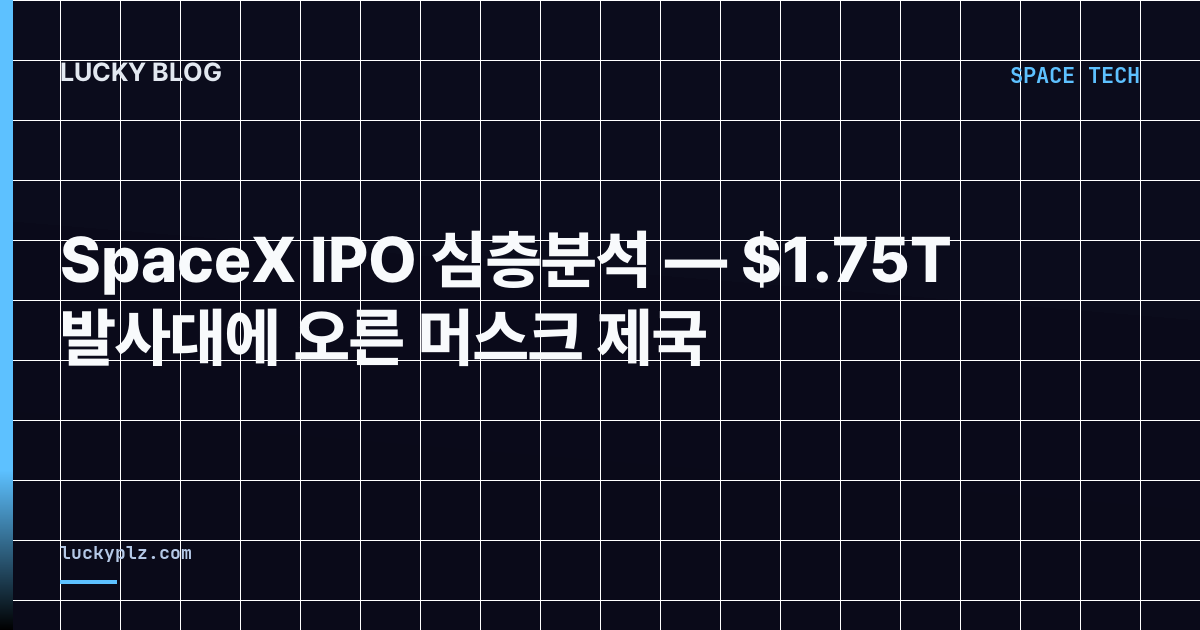
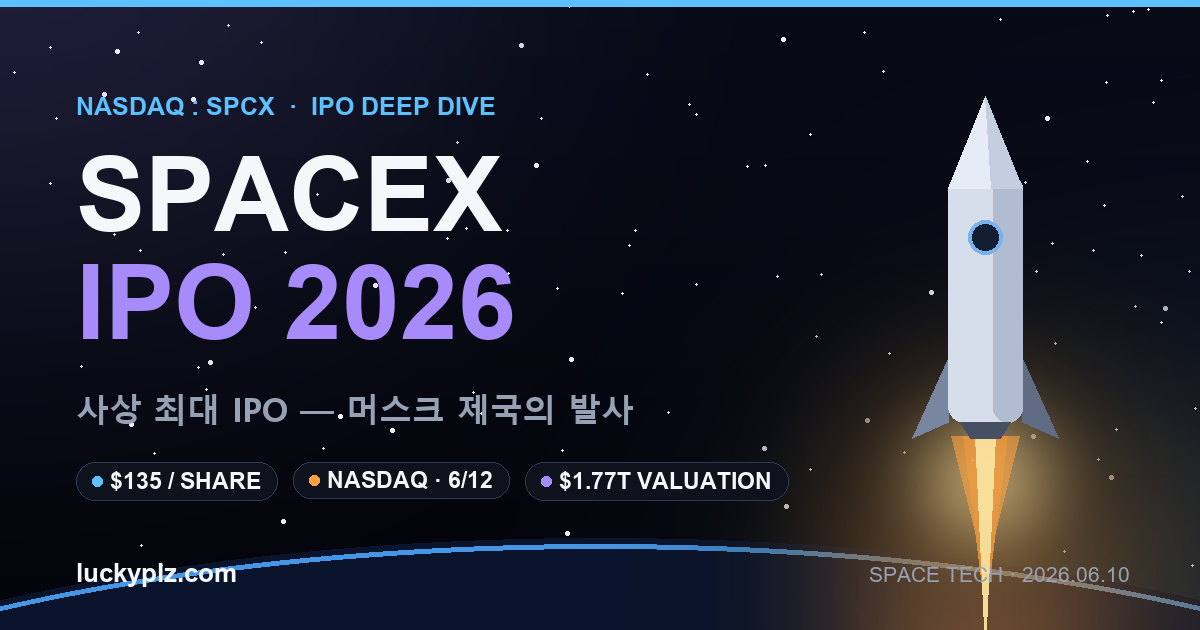
feat(blog): SpaceX IPO 전용 OG 리디자인 — 로켓 발사 비주얼 (7개 언어)
기존 OG 가 격자 배경+텍스트뿐이고 수치도 구버전($1.75T)이었으며,
de/es/hi/zh/ja 5개 언어판(+ko JSON-LD)은 아예 범용 사이트 OG 를 쓰고 있었음.

새 디자인 (gen-og-spacex-ipo.py, PIL):
- 딥스페이스 그라데이션 + 시드 고정 별밭 + 지구 호라이즌 글로우
- 엔진 화염·배기 트레일이 있는 상승 로켓 일러스트
- SPACEX / IPO 2026 워드마크 + NASDAQ:SPCX 아이브로우
- 확정 수치 칩 3개: $135/SHARE · NASDAQ 6/12 · $1.77T VALUATION
- 언어별 자막 7종 (ko/en/de/es/hi/zh/ja — Nirmala·msyh·YuGoth 폰트)

7개 HTML 의 og:image·twitter:image·JSON-LD image 를 각자 언어판 OG 로 통일
(범용 og-image.png 참조 0 으로). 시각 검증: ko·ja 렌더 확인.

diff --git a/public/blog/spacex-ipo-2026-hi/index.html b/public/blog/spacex-ipo-2026-hi/index.html
@@ -26,13 +26,13 @@
 <meta property="og:title" content="SpaceX IPO — S-1 दाखिल, $2 ट्रिलियन (SPCX)">
 <meta property="og:description" content="xAI विलय · Starship V3 · Orbital AI — इतिहास का सबसे बड़ा IPO, पूरी तरह से विश्लेषित।">
 <meta property="og:url" content="https://luckyplz.com/blog/spacex-ipo-2026-hi/">
-<meta property="og:image" content="https://luckyplz.com/assets/og-image.png">
+<meta property="og:image" content="https://luckyplz.com/og/spacex-ipo-2026-hi.png">
 <meta name="twitter:card" content="summary_large_image">
 <meta name="twitter:title" content="SpaceX IPO — S-1 दाखिल, $2T (SPCX)">
 <meta name="twitter:description" content="xAI, Starship V3, Orbital AI। इतिहास का सबसे बड़ा IPO।">
-<meta name="twitter:image" content="https://luckyplz.com/assets/og-image.png">
+<meta name="twitter:image" content="https://luckyplz.com/og/spacex-ipo-2026-hi.png">
 <script type="application/ld+json">
-{"@context":"https://schema.org","@type":"BlogPosting","headline":"SpaceX IPO गहन विश्लेषण — S-1 दाखिल, Musk का $2 ट्रिलियन साम्राज्य (SPCX)","description":"2026.05.20 को S-1 सार्वजनिक रूप से दाखिल, Nasdaq टिकर SPCX, जून में ट्रेडिंग की संभावना। लक्ष्य मूल्यांकन $2 ट्रिलियन से अधिक। S-1 आँकड़े, Starlink, Starship V3, xAI की तथ्य-जाँच।","image":"https://luckyplz.com/assets/og-image.png","datePublished":"2026-05-06","dateModified":"2026-06-10","inLanguage":"hi","author":{"@type":"Organization","name":"Lucky Please","url":"https://luckyplz.com/"},"publisher":{"@type":"Organization","name":"Lucky Please","logo":{"@type":"ImageObject","url":"https://luckyplz.com/assets/icon-192.png"}},"mainEntityOfPage":{"@type":"WebPage","@id":"https://luckyplz.com/blog/spacex-ipo-2026-hi/"}}
+{"@context":"https://schema.org","@type":"BlogPosting","headline":"SpaceX IPO गहन विश्लेषण — S-1 दाखिल, Musk का $2 ट्रिलियन साम्राज्य (SPCX)","description":"2026.05.20 को S-1 सार्वजनिक रूप से दाखिल, Nasdaq टिकर SPCX, जून में ट्रेडिंग की संभावना। लक्ष्य मूल्यांकन $2 ट्रिलियन से अधिक। S-1 आँकड़े, Starlink, Starship V3, xAI की तथ्य-जाँच।","image":"https://luckyplz.com/og/spacex-ipo-2026-hi.png","datePublished":"2026-05-06","dateModified":"2026-06-10","inLanguage":"hi","author":{"@type":"Organization","name":"Lucky Please","url":"https://luckyplz.com/"},"publisher":{"@type":"Organization","name":"Lucky Please","logo":{"@type":"ImageObject","url":"https://luckyplz.com/assets/icon-192.png"}},"mainEntityOfPage":{"@type":"WebPage","@id":"https://luckyplz.com/blog/spacex-ipo-2026-hi/"}}
 </script>
     <script type="application/ld+json">
     {"@context":"https://schema.org","@type":"BreadcrumbList","itemListElement":[{"@type":"ListItem","position":1,"name":"홈","item":"https://luckyplz.com/"},{"@type":"ListItem","position":2,"name":"블로그","item":"https://luckyplz.com/blog/"},{"@type":"ListItem","position":3,"name":"SpaceX IPO गहन विश्लेषण — S-1 दाखिल, Musk का $2 ट्रिलियन साम्राज्य (SPCX)","item":"https://luckyplz.com/blog/spacex-ipo-2026-hi/"}]}

diff --git a/public/blog/spacex-ipo-2026-ja/index.html b/public/blog/spacex-ipo-2026-ja/index.html
@@ -26,13 +26,13 @@
 <meta property="og:title" content="SpaceX IPO徹底分析 — S-1提出完了、2兆ドルのマスク帝国 (SPCX)">
 <meta property="og:description" content="xAI合併・Starship V3・Orbital AI — マスク帝国史上最大のIPOを徹底解説。">
 <meta property="og:url" content="https://luckyplz.com/blog/spacex-ipo-2026-ja/">
-<meta property="og:image" content="https://luckyplz.com/assets/og-image.png?v=1777984694">
+<meta property="og:image" content="https://luckyplz.com/og/spacex-ipo-2026-ja.png">
 <meta name="twitter:card" content="summary_large_image">
 <meta name="twitter:title" content="SpaceX IPO — S-1提出完了、2兆ドル (SPCX)">
 <meta name="twitter:description" content="xAI合併・Starship V3・Orbital AI。マスク帝国史上最大のIPO。">
-<meta name="twitter:image" content="https://luckyplz.com/assets/og-image.png?v=1777984694">
+<meta name="twitter:image" content="https://luckyplz.com/og/spacex-ipo-2026-ja.png">
 <script type="application/ld+json">
-{"@context":"https://schema.org","@type":"BlogPosting","headline":"SpaceX IPO徹底分析 — S-1提出完了、2兆ドルのマスク帝国 (SPCX)","description":"2026.05.20 S-1公開提出、ナスダックSPCX、6月取引開始の見込み。目標評価額2兆ドル超。S-1業績、Starlink 1000万、Starship V3、xAI買収の最新ファクトチェック。","image":"https://luckyplz.com/assets/og-image.png?v=1777984694","datePublished":"2026-05-05","dateModified":"2026-06-10","inLanguage":"ja","author":{"@type":"Organization","name":"Lucky Please","url":"https://luckyplz.com/"},"publisher":{"@type":"Organization","name":"Lucky Please","logo":{"@type":"ImageObject","url":"https://luckyplz.com/assets/icon-192.png?v=1777984694"}},"mainEntityOfPage":{"@type":"WebPage","@id":"https://luckyplz.com/blog/spacex-ipo-2026-ja/"}}
+{"@context":"https://schema.org","@type":"BlogPosting","headline":"SpaceX IPO徹底分析 — S-1提出完了、2兆ドルのマスク帝国 (SPCX)","description":"2026.05.20 S-1公開提出、ナスダックSPCX、6月取引開始の見込み。目標評価額2兆ドル超。S-1業績、Starlink 1000万、Starship V3、xAI買収の最新ファクトチェック。","image":"https://luckyplz.com/og/spacex-ipo-2026-ja.png","datePublished":"2026-05-05","dateModified":"2026-06-10","inLanguage":"ja","author":{"@type":"Organization","name":"Lucky Please","url":"https://luckyplz.com/"},"publisher":{"@type":"Organization","name":"Lucky Please","logo":{"@type":"ImageObject","url":"https://luckyplz.com/assets/icon-192.png?v=1777984694"}},"mainEntityOfPage":{"@type":"WebPage","@id":"https://luckyplz.com/blog/spacex-ipo-2026-ja/"}}
 </script>
     <script type="application/ld+json">
     {"@context":"https://schema.org","@type":"BreadcrumbList","itemListElement":[{"@type":"ListItem","position":1,"name":"ホーム","item":"https://luckyplz.com/"},{"@type":"ListItem","position":2,"name":"ブログ","item":"https://luckyplz.com/blog/"},{"@type":"ListItem","position":3,"name":"SpaceX IPO徹底分析 — S-1提出完了、2兆ドルのマスク帝国 (SPCX)","item":"https://luckyplz.com/blog/spacex-ipo-2026-ja/"}]}

diff --git a/public/blog/spacex-ipo-2026-es/index.html b/public/blog/spacex-ipo-2026-es/index.html
@@ -26,13 +26,13 @@
 <meta property="og:title" content="OPI de SpaceX — S-1 presentado, $2B (SPCX)">
 <meta property="og:description" content="Fusión xAI · Starship V3 · Orbital AI — La mayor OPI del imperio Musk, totalmente desglosada.">
 <meta property="og:url" content="https://luckyplz.com/blog/spacex-ipo-2026-es/">
-<meta property="og:image" content="https://luckyplz.com/assets/og-image.png?v=1777985356">
+<meta property="og:image" content="https://luckyplz.com/og/spacex-ipo-2026-es.png">
 <meta name="twitter:card" content="summary_large_image">
 <meta name="twitter:title" content="OPI de SpaceX — S-1 presentado, $2B (SPCX)">
 <meta name="twitter:description" content="xAI, Starship V3, Orbital AI. La mayor OPI de la historia.">
-<meta name="twitter:image" content="https://luckyplz.com/assets/og-image.png?v=1777985356">
+<meta name="twitter:image" content="https://luckyplz.com/og/spacex-ipo-2026-es.png">
 <script type="application/ld+json">
-{"@context":"https://schema.org","@type":"BlogPosting","headline":"Análisis Profundo de la OPI de SpaceX — S-1 presentado, imperio de $2B de Musk (SPCX)","description":"S-1 presentado el 2026.05.20, ticker Nasdaq SPCX, cotización esperada en junio. Valoración objetivo más de $2 billones. Verificación de cifras del S-1, Starlink, Starship V3 y xAI.","image":"https://luckyplz.com/assets/og-image.png?v=1777985356","datePublished":"2026-05-05","dateModified":"2026-06-10","inLanguage":"es","author":{"@type":"Organization","name":"Lucky Please","url":"https://luckyplz.com/"},"publisher":{"@type":"Organization","name":"Lucky Please","logo":{"@type":"ImageObject","url":"https://luckyplz.com/assets/icon-192.png?v=1777985356"}},"mainEntityOfPage":{"@type":"WebPage","@id":"https://luckyplz.com/blog/spacex-ipo-2026-es/"}}
+{"@context":"https://schema.org","@type":"BlogPosting","headline":"Análisis Profundo de la OPI de SpaceX — S-1 presentado, imperio de $2B de Musk (SPCX)","description":"S-1 presentado el 2026.05.20, ticker Nasdaq SPCX, cotización esperada en junio. Valoración objetivo más de $2 billones. Verificación de cifras del S-1, Starlink, Starship V3 y xAI.","image":"https://luckyplz.com/og/spacex-ipo-2026-es.png","datePublished":"2026-05-05","dateModified":"2026-06-10","inLanguage":"es","author":{"@type":"Organization","name":"Lucky Please","url":"https://luckyplz.com/"},"publisher":{"@type":"Organization","name":"Lucky Please","logo":{"@type":"ImageObject","url":"https://luckyplz.com/assets/icon-192.png?v=1777985356"}},"mainEntityOfPage":{"@type":"WebPage","@id":"https://luckyplz.com/blog/spacex-ipo-2026-es/"}}
 </script>
     <script type="application/ld+json">
     {"@context":"https://schema.org","@type":"BreadcrumbList","itemListElement":[{"@type":"ListItem","position":1,"name":"홈","item":"https://luckyplz.com/"},{"@type":"ListItem","position":2,"name":"블로그","item":"https://luckyplz.com/blog/"},{"@type":"ListItem","position":3,"name":"Análisis Profundo de la OPI de SpaceX — S-1 presentado, imperio de $2B de Musk (SPCX)","item":"https://luckyplz.com/blog/spacex-ipo-2026-es/"}]}

diff --git a/public/blog/spacex-ipo-2026-zh/index.html b/public/blog/spacex-ipo-2026-zh/index.html
@@ -26,13 +26,13 @@
 <meta property="og:title" content="SpaceX IPO深度分析 — S-1已提交,2万亿美元马斯克帝国 (SPCX)">
 <meta property="og:description" content="xAI合并·Starship V3·轨道AI — 马斯克帝国史上最大IPO全方位剖析。">
 <meta property="og:url" content="https://luckyplz.com/blog/spacex-ipo-2026-zh/">
-<meta property="og:image" content="https://luckyplz.com/assets/og-image.png?v=1777985048">
+<meta property="og:image" content="https://luckyplz.com/og/spacex-ipo-2026-zh.png">
 <meta name="twitter:card" content="summary_large_image">
 <meta name="twitter:title" content="SpaceX IPO — S-1已提交,2万亿美元 (SPCX)">
 <meta name="twitter:description" content="xAI合并·Starship V3·轨道AI。马斯克帝国史上最大IPO。">
-<meta name="twitter:image" content="https://luckyplz.com/assets/og-image.png?v=1777985048">
+<meta name="twitter:image" content="https://luckyplz.com/og/spacex-ipo-2026-zh.png">
 <script type="application/ld+json">
-{"@context":"https://schema.org","@type":"BlogPosting","headline":"SpaceX IPO深度分析 — S-1已提交,2万亿美元马斯克帝国 (SPCX)","description":"2026.05.20 S-1公开提交,纳斯达克代码SPCX,预计6月交易。目标估值2万亿美元以上。S-1财报、Starlink千万、Starship V3、xAI收购最新事实核查。","image":"https://luckyplz.com/assets/og-image.png?v=1777985048","datePublished":"2026-05-05","dateModified":"2026-06-10","inLanguage":"zh-Hans","author":{"@type":"Organization","name":"Lucky Please","url":"https://luckyplz.com/"},"publisher":{"@type":"Organization","name":"Lucky Please","logo":{"@type":"ImageObject","url":"https://luckyplz.com/assets/icon-192.png?v=1777985048"}},"mainEntityOfPage":{"@type":"WebPage","@id":"https://luckyplz.com/blog/spacex-ipo-2026-zh/"}}
+{"@context":"https://schema.org","@type":"BlogPosting","headline":"SpaceX IPO深度分析 — S-1已提交,2万亿美元马斯克帝国 (SPCX)","description":"2026.05.20 S-1公开提交,纳斯达克代码SPCX,预计6月交易。目标估值2万亿美元以上。S-1财报、Starlink千万、Starship V3、xAI收购最新事实核查。","image":"https://luckyplz.com/og/spacex-ipo-2026-zh.png","datePublished":"2026-05-05","dateModified":"2026-06-10","inLanguage":"zh-Hans","author":{"@type":"Organization","name":"Lucky Please","url":"https://luckyplz.com/"},"publisher":{"@type":"Organization","name":"Lucky Please","logo":{"@type":"ImageObject","url":"https://luckyplz.com/assets/icon-192.png?v=1777985048"}},"mainEntityOfPage":{"@type":"WebPage","@id":"https://luckyplz.com/blog/spacex-ipo-2026-zh/"}}
 </script>
     <script type="application/ld+json">
     {"@context":"https://schema.org","@type":"BreadcrumbList","itemListElement":[{"@type":"ListItem","position":1,"name":"홈","item":"https://luckyplz.com/"},{"@type":"ListItem","position":2,"name":"블로그","item":"https://luckyplz.com/blog/"},{"@type":"ListItem","position":3,"name":"SpaceX IPO深度分析 — S-1已提交,2万亿美元马斯克帝国 (SPCX)","item":"https://luckyplz.com/blog/spacex-ipo-2026-zh/"}]}

diff --git a/public/blog/spacex-ipo-2026-de/index.html b/public/blog/spacex-ipo-2026-de/index.html
@@ -26,13 +26,13 @@
 <meta property="og:title" content="SpaceX IPO Tiefenanalyse — S-1 eingereicht, $2 Bio. (SPCX)">
 <meta property="og:description" content="S-1 eingereicht (2026.05.20), Nasdaq SPCX, Handel im Juni erwartet. Zielbewertung über $2 Bio. Aktueller Faktencheck.">
 <meta property="og:url" content="https://luckyplz.com/blog/spacex-ipo-2026-de/">
-<meta property="og:image" content="https://luckyplz.com/assets/og-image.png">
+<meta property="og:image" content="https://luckyplz.com/og/spacex-ipo-2026-de.png">
 <meta name="twitter:card" content="summary_large_image">
 <meta name="twitter:title" content="SpaceX IPO — S-1 eingereicht, $2 Bio. (SPCX)">
 <meta name="twitter:description" content="S-1 eingereicht (2026.05.20), Nasdaq SPCX, Handel im Juni. Aktueller Faktencheck.">
-<meta name="twitter:image" content="https://luckyplz.com/assets/og-image.png">
+<meta name="twitter:image" content="https://luckyplz.com/og/spacex-ipo-2026-de.png">
 <script type="application/ld+json">
-{"@context":"https://schema.org","@type":"BlogPosting","headline":"SpaceX IPO Tiefenanalyse — S-1 eingereicht, Musks $2 Bio. Imperium (SPCX)","description":"S-1 öffentlich eingereicht am 2026.05.20, Nasdaq-Ticker SPCX, Handel im Juni erwartet. Zielbewertung über $2 Bio. Aktueller Faktencheck zu S-1-Zahlen, Starlink, Starship V3, xAI.","image":"https://luckyplz.com/assets/og-image.png","datePublished":"2026-05-06","dateModified":"2026-06-10","inLanguage":"de","author":{"@type":"Organization","name":"Lucky Please","url":"https://luckyplz.com/"},"publisher":{"@type":"Organization","name":"Lucky Please","logo":{"@type":"ImageObject","url":"https://luckyplz.com/assets/icon-192.png"}},"mainEntityOfPage":{"@type":"WebPage","@id":"https://luckyplz.com/blog/spacex-ipo-2026-de/"}}
+{"@context":"https://schema.org","@type":"BlogPosting","headline":"SpaceX IPO Tiefenanalyse — S-1 eingereicht, Musks $2 Bio. Imperium (SPCX)","description":"S-1 öffentlich eingereicht am 2026.05.20, Nasdaq-Ticker SPCX, Handel im Juni erwartet. Zielbewertung über $2 Bio. Aktueller Faktencheck zu S-1-Zahlen, Starlink, Starship V3, xAI.","image":"https://luckyplz.com/og/spacex-ipo-2026-de.png","datePublished":"2026-05-06","dateModified":"2026-06-10","inLanguage":"de","author":{"@type":"Organization","name":"Lucky Please","url":"https://luckyplz.com/"},"publisher":{"@type":"Organization","name":"Lucky Please","logo":{"@type":"ImageObject","url":"https://luckyplz.com/assets/icon-192.png"}},"mainEntityOfPage":{"@type":"WebPage","@id":"https://luckyplz.com/blog/spacex-ipo-2026-de/"}}
 </script>
     <script type="application/ld+json">
     {"@context":"https://schema.org","@type":"BreadcrumbList","itemListElement":[{"@type":"ListItem","position":1,"name":"홈","item":"https://luckyplz.com/"},{"@type":"ListItem","position":2,"name":"블로그","item":"https://luckyplz.com/blog/"},{"@type":"ListItem","position":3,"name":"SpaceX IPO Tiefenanalyse — S-1 eingereicht, Musks $2 Bio. Imperium (SPCX)","item":"https://luckyplz.com/blog/spacex-ipo-2026-de/"}]}

diff --git a/public/blog/spacex-ipo-2026/index.html b/public/blog/spacex-ipo-2026/index.html
@@ -32,7 +32,7 @@
 <meta name="twitter:description" content="공모가 $135·6/12 나스닥 SPCX 거래·밸류 $1.77조. 최신 팩트체크 심층분석.">
 <meta name="twitter:image" content="https://luckyplz.com/og/spacex-ipo-2026.png">
 <script type="application/ld+json">
-{"@context":"https://schema.org","@type":"BlogPosting","headline":"SpaceX IPO 심층분석 — S-1 제출 완료, $2조 발사대의 머스크 제국 (SPCX)","description":"공모가 $135 고정·6/12 나스닥 SPCX 거래 개시·내재밸류 $1.77조. 555.6M주·~$75B 역대 최대 IPO, EchoStar 스펙트럼·Cursor 거래, S-1 실적까지 최신 팩트체크.","image":"https://luckyplz.com/assets/og-image.png?v=1777942002","datePublished":"2026-05-05","dateModified":"2026-06-10","author":{"@type":"Organization","name":"Lucky Please","url":"https://luckyplz.com/"},"publisher":{"@type":"Organization","name":"Lucky Please","logo":{"@type":"ImageObject","url":"https://luckyplz.com/assets/icon-192.png?v=1777942002"}},"mainEntityOfPage":{"@type":"WebPage","@id":"https://luckyplz.com/blog/spacex-ipo-2026/"}}
+{"@context":"https://schema.org","@type":"BlogPosting","headline":"SpaceX IPO 심층분석 — S-1 제출 완료, $2조 발사대의 머스크 제국 (SPCX)","description":"공모가 $135 고정·6/12 나스닥 SPCX 거래 개시·내재밸류 $1.77조. 555.6M주·~$75B 역대 최대 IPO, EchoStar 스펙트럼·Cursor 거래, S-1 실적까지 최신 팩트체크.","image":"https://luckyplz.com/og/spacex-ipo-2026.png","datePublished":"2026-05-05","dateModified":"2026-06-10","author":{"@type":"Organization","name":"Lucky Please","url":"https://luckyplz.com/"},"publisher":{"@type":"Organization","name":"Lucky Please","logo":{"@type":"ImageObject","url":"https://luckyplz.com/assets/icon-192.png?v=1777942002"}},"mainEntityOfPage":{"@type":"WebPage","@id":"https://luckyplz.com/blog/spacex-ipo-2026/"}}
 </script>
     <script type="application/ld+json">
     {"@context":"https://schema.org","@type":"BreadcrumbList","itemListElement":[{"@type":"ListItem","position":1,"name":"홈","item":"https://luckyplz.com/"},{"@type":"ListItem","position":2,"name":"블로그","item":"https://luckyplz.com/blog/"},{"@type":"ListItem","position":3,"name":"SpaceX IPO 심층분석 — S-1 제출 완료, $2조 발사대의 머스크 제국 (SPCX)","item":"https://luckyplz.com/blog/spacex-ipo-2026/"}]}

diff --git a/public/blog/spacex-ipo-2026-en/index.html b/public/blog/spacex-ipo-2026-en/index.html
@@ -32,7 +32,7 @@
 <meta name="twitter:description" content="xAI merger, Starship V3, Orbital AI. The largest IPO in Musk's empire.">
 <meta name="twitter:image" content="https://luckyplz.com/og/spacex-ipo-2026-en.png">
 <script type="application/ld+json">
-{"@context":"https://schema.org","@type":"BlogPosting","headline":"SpaceX IPO Deep Dive — S-1 Filed, Musk's $2T Empire (SPCX)","description":"Fixed $135 offer price, trading June 12 on Nasdaq (SPCX), $1.77T implied valuation. 555.6M shares, ~$75B raise — the largest IPO ever, EchoStar spectrum & Cursor deals, plus S-1 financials. Fact-checked deep dive.","image":"https://luckyplz.com/assets/og-image.png?v=1777942002","datePublished":"2026-05-05","dateModified":"2026-06-10","inLanguage":"en","author":{"@type":"Organization","name":"Lucky Please","url":"https://luckyplz.com/"},"publisher":{"@type":"Organization","name":"Lucky Please","logo":{"@type":"ImageObject","url":"https://luckyplz.com/assets/icon-192.png?v=1777942002"}},"mainEntityOfPage":{"@type":"WebPage","@id":"https://luckyplz.com/blog/spacex-ipo-2026-en/"}}
+{"@context":"https://schema.org","@type":"BlogPosting","headline":"SpaceX IPO Deep Dive — S-1 Filed, Musk's $2T Empire (SPCX)","description":"Fixed $135 offer price, trading June 12 on Nasdaq (SPCX), $1.77T implied valuation. 555.6M shares, ~$75B raise — the largest IPO ever, EchoStar spectrum & Cursor deals, plus S-1 financials. Fact-checked deep dive.","image":"https://luckyplz.com/og/spacex-ipo-2026-en.png","datePublished":"2026-05-05","dateModified":"2026-06-10","inLanguage":"en","author":{"@type":"Organization","name":"Lucky Please","url":"https://luckyplz.com/"},"publisher":{"@type":"Organization","name":"Lucky Please","logo":{"@type":"ImageObject","url":"https://luckyplz.com/assets/icon-192.png?v=1777942002"}},"mainEntityOfPage":{"@type":"WebPage","@id":"https://luckyplz.com/blog/spacex-ipo-2026-en/"}}
 </script>
     <script type="application/ld+json">
     {"@context":"https://schema.org","@type":"BreadcrumbList","itemListElement":[{"@type":"ListItem","position":1,"name":"홈","item":"https://luckyplz.com/"},{"@type":"ListItem","position":2,"name":"블로그","item":"https://luckyplz.com/blog/"},{"@type":"ListItem","position":3,"name":"SpaceX IPO Deep Dive — S-1 Filed, Musk's $2T Empire (SPCX)","item":"https://luckyplz.com/blog/spacex-ipo-2026-en/"}]}

diff --git a/scripts/gen-og-spacex-ipo.py b/scripts/gen-og-spacex-ipo.py
@@ -1,0 +1,194 @@
+#!/usr/bin/env python3
+"""Generate polished 1200x630 OG images for the SpaceX IPO flagship post.
+
+Replaces the old text-on-grid OG (which also showed an outdated $1.75T).
+Design: deep-space gradient + seeded starfield + drawn ascending rocket with
+engine glow, big SPACEX IPO wordmark, localized subtitle, three fact chips
+($135/share · Nasdaq 6/12 · $1.77T), luckyplz.com branding.
+
+Outputs 7 localized variants into public/og/:
+  spacex-ipo-2026.png      (ko)   spacex-ipo-2026-en.png
+  spacex-ipo-2026-de.png   spacex-ipo-2026-es.png
+  spacex-ipo-2026-hi.png   spacex-ipo-2026-zh.png
+  spacex-ipo-2026-ja.png
+"""
+import random
+from pathlib import Path
+from PIL import Image, ImageDraw, ImageFont, ImageFilter
+
+ROOT = Path(__file__).resolve().parent.parent
+OG = ROOT / "public" / "og"
+FONTS = Path("C:/Windows/Fonts")
+
+W, H = 1200, 630
+BLUE = (93, 193, 255)
+PURPLE = (167, 139, 250)
+FLAME = (255, 160, 60)
+FLAME_CORE = (255, 230, 160)
+WHITE = (245, 247, 250)
+DIM = (150, 162, 180)
+CHIP_BG = (14, 18, 28)
+CHIP_BD = (44, 58, 84)
+
+LANGS = {
+    "":    {"font": "malgunbd.ttf",  "sub": "사상 최대 IPO — 머스크 제국의 발사"},
+    "-en": {"font": "arialbd.ttf",   "sub": "The Largest IPO in History — Musk's Empire Lifts Off"},
+    "-de": {"font": "arialbd.ttf",   "sub": "Der größte Börsengang aller Zeiten"},
+    "-es": {"font": "arialbd.ttf",   "sub": "La mayor OPV de la historia"},
+    "-hi": {"font": "NirmalaB.ttf",  "sub": "इतिहास का सबसे बड़ा IPO"},
+    "-zh": {"font": "msyhbd.ttc",    "sub": "史上最大IPO — 马斯克帝国升空"},
+    "-ja": {"font": "YuGothB.ttc",   "sub": "史上最大のIPO — マスク帝国の打ち上げ"},
+}
+
+CHIPS = ["$135 / SHARE", "NASDAQ · 6/12", "$1.77T VALUATION"]
+
+
+def font(name, size):
+    return ImageFont.truetype(str(FONTS / name), size)
+
+
+def vertical_gradient(w, h, top, bot):
+    base = Image.new("RGB", (w, h), top)
+    grad = Image.new("L", (1, h))
+    for y in range(h):
+        grad.putpixel((0, y), int(y / max(1, h - 1) * 255))
+    grad = grad.resize((w, h))
+    return Image.composite(Image.new("RGB", (w, h), bot), base, grad)
+
+
+def radial_glow(w, h, cx, cy, radius, color, max_alpha):
+    layer = Image.new("RGBA", (w, h), (0, 0, 0, 0))
+    d = ImageDraw.Draw(layer)
+    d.ellipse([cx - radius, cy - radius, cx + radius, cy + radius],
+              fill=color + (max_alpha,))
+    return layer.filter(ImageFilter.GaussianBlur(radius // 2))
+
+
+def starfield(img, seed=42, n=130):
+    rnd = random.Random(seed)
+    d = ImageDraw.Draw(img)
+    for _ in range(n):
+        x, y = rnd.randint(0, W), rnd.randint(0, H)
+        r = rnd.choice([1, 1, 1, 2])
+        a = rnd.randint(70, 200)
+        d.ellipse([x - r, y - r, x + r, y + r], fill=(255, 255, 255, a))
+
+
+def draw_rocket(img):
+    """Stylized rocket ascending on the right with engine glow + trail."""
+    cx = 985          # rocket axis x
+    top = 96          # nose tip y
+    body_w = 74
+    body_h = 240
+    nose_h = 86
+    layer = Image.new("RGBA", (W, H), (0, 0, 0, 0))
+    d = ImageDraw.Draw(layer)
+
+    bx0, bx1 = cx - body_w // 2, cx + body_w // 2
+    by0 = top + nose_h
+    by1 = by0 + body_h
+
+    # engine glow stack (drawn first, behind everything)
+    img.alpha_composite(radial_glow(W, H, cx, by1 + 96, 190, FLAME, 120))
+    img.alpha_composite(radial_glow(W, H, cx, by1 + 56, 90, FLAME_CORE, 170))
+
+    # exhaust trail
+    for i, (w_, a) in enumerate([(34, 150), (22, 190), (10, 235)]):
+        d.polygon([(cx - w_, by1 + 14), (cx + w_, by1 + 14), (cx, by1 + 150 + i * 38)],
+                  fill=FLAME[:3] + (a,) if i < 2 else FLAME_CORE + (a,))
+
+    # fins
+    fin = 36
+    d.polygon([(bx0, by1 - 64), (bx0 - fin, by1 + 16), (bx0, by1)], fill=(120, 134, 160, 255))
+    d.polygon([(bx1, by1 - 64), (bx1 + fin, by1 + 16), (bx1, by1)], fill=(96, 108, 132, 255))
+
+    # body
+    d.rounded_rectangle([bx0, by0 - 8, bx1, by1], radius=16, fill=(214, 222, 236, 255))
+    # body shading (right side darker strip)
+    d.rounded_rectangle([cx + 8, by0 - 8, bx1, by1], radius=16, fill=(176, 188, 208, 255))
+    # nose cone
+    d.polygon([(bx0, by0 + 6), (bx1, by0 + 6), (cx, top)], fill=(230, 236, 246, 255))
+    d.polygon([(cx, top), (bx1, by0 + 6), (cx + 6, by0 + 6)], fill=(196, 206, 224, 255))
+    # window
+    d.ellipse([cx - 17, by0 + 38, cx + 17, by0 + 72], fill=(20, 30, 50, 255), outline=(120, 180, 235, 255), width=4)
+    # engine nozzle
+    d.polygon([(bx0 + 12, by1), (bx1 - 12, by1), (bx1 - 22, by1 + 16), (bx0 + 22, by1 + 16)],
+              fill=(70, 80, 98, 255))
+
+    img.alpha_composite(layer)
+
+
+def rounded_chip(d, xy, text, fnt, accent):
+    x, y = xy
+    pad = (16, 9)
+    tb = d.textbbox((0, 0), text, font=fnt)
+    tw, th = tb[2] - tb[0], tb[3] - tb[1]
+    w, h = tw + pad[0] * 2 + 18, th + pad[1] * 2
+    d.rounded_rectangle([x, y, x + w, y + h], radius=h // 2, fill=CHIP_BG, outline=CHIP_BD, width=1)
+    r = 5
+    dcx, dcy = x + pad[0] + r, y + h // 2
+    d.ellipse([dcx - r, dcy - r, dcx + r, dcy + r], fill=accent)
+    d.text((dcx + r + 8, y + pad[1] - tb[1]), text, font=fnt, fill=WHITE)
+    return w, h
+
+
+def build(suffix, cfg):
+    img = vertical_gradient(W, H, (7, 10, 22), (3, 4, 10)).convert("RGBA")
+    starfield(img)
+    # nebula glows
+    img.alpha_composite(radial_glow(W, H, 150, -40, 420, PURPLE, 40))
+    img.alpha_composite(radial_glow(W, H, 1120, 660, 420, BLUE, 45))
+    # earth horizon arc at bottom
+    d0 = ImageDraw.Draw(img)
+    d0.ellipse([-420, H - 92, W + 420, H + 560], fill=(10, 20, 44, 255))
+    d0.ellipse([-420, H - 86, W + 420, H + 566], outline=(70, 150, 230, 110), width=5)
+
+    draw_rocket(img)
+
+    d = ImageDraw.Draw(img)
+    # top accent rule
+    d.rectangle([0, 0, W, 6], fill=BLUE)
+
+    LX = 76
+    # eyebrow
+    f_eyebrow = font("arialbd.ttf", 25)
+    d.text((LX, 92), "NASDAQ : SPCX  ·  IPO DEEP DIVE", font=f_eyebrow, fill=BLUE)
+    # wordmark
+    f_big = font("arialbd.ttf", 104)
+    d.text((LX, 136), "SPACEX", font=f_big, fill=WHITE)
+    d.text((LX, 244), "IPO 2026", font=f_big, fill=PURPLE)
+    # localized subtitle
+    f_sub = font(cfg["font"], 33)
+    d.text((LX, 386), cfg["sub"], font=f_sub, fill=DIM)
+
+    # chips row
+    f_chip = font("arialbd.ttf", 23)
+    cxp, cy = LX, 462
+    accents = [BLUE, FLAME, PURPLE]
+    for i, c in enumerate(CHIPS):
+        w, _ = rounded_chip(d, (cxp, cy), c, f_chip, accents[i])
+        cxp += w + 16
+
+    # footer
+    f_brand = font("arialbd.ttf", 26)
+    f_meta = font("arial.ttf", 21)
+    d.text((LX, H - 72), "luckyplz.com", font=f_brand, fill=WHITE)
+    meta = "SPACE TECH · 2026.06.10"
+    mb = d.textbbox((0, 0), meta, font=f_meta)
+    d.text((W - 70 - (mb[2] - mb[0]), H - 68), meta, font=f_meta, fill=DIM)
+
+    out = OG / f"spacex-ipo-2026{suffix}.png"
+    img.convert("RGB").save(out, "PNG", optimize=True)
+    print(f"  wrote {out.name}  ({out.stat().st_size // 1024} KB)")
+
+
+def main():
+    OG.mkdir(parents=True, exist_ok=True)
+    print("Generating SpaceX IPO OG images:")
+    for suffix, cfg in LANGS.items():
+        build(suffix, cfg)
+    print("done.")
+
+
+if __name__ == "__main__":
+    main()
